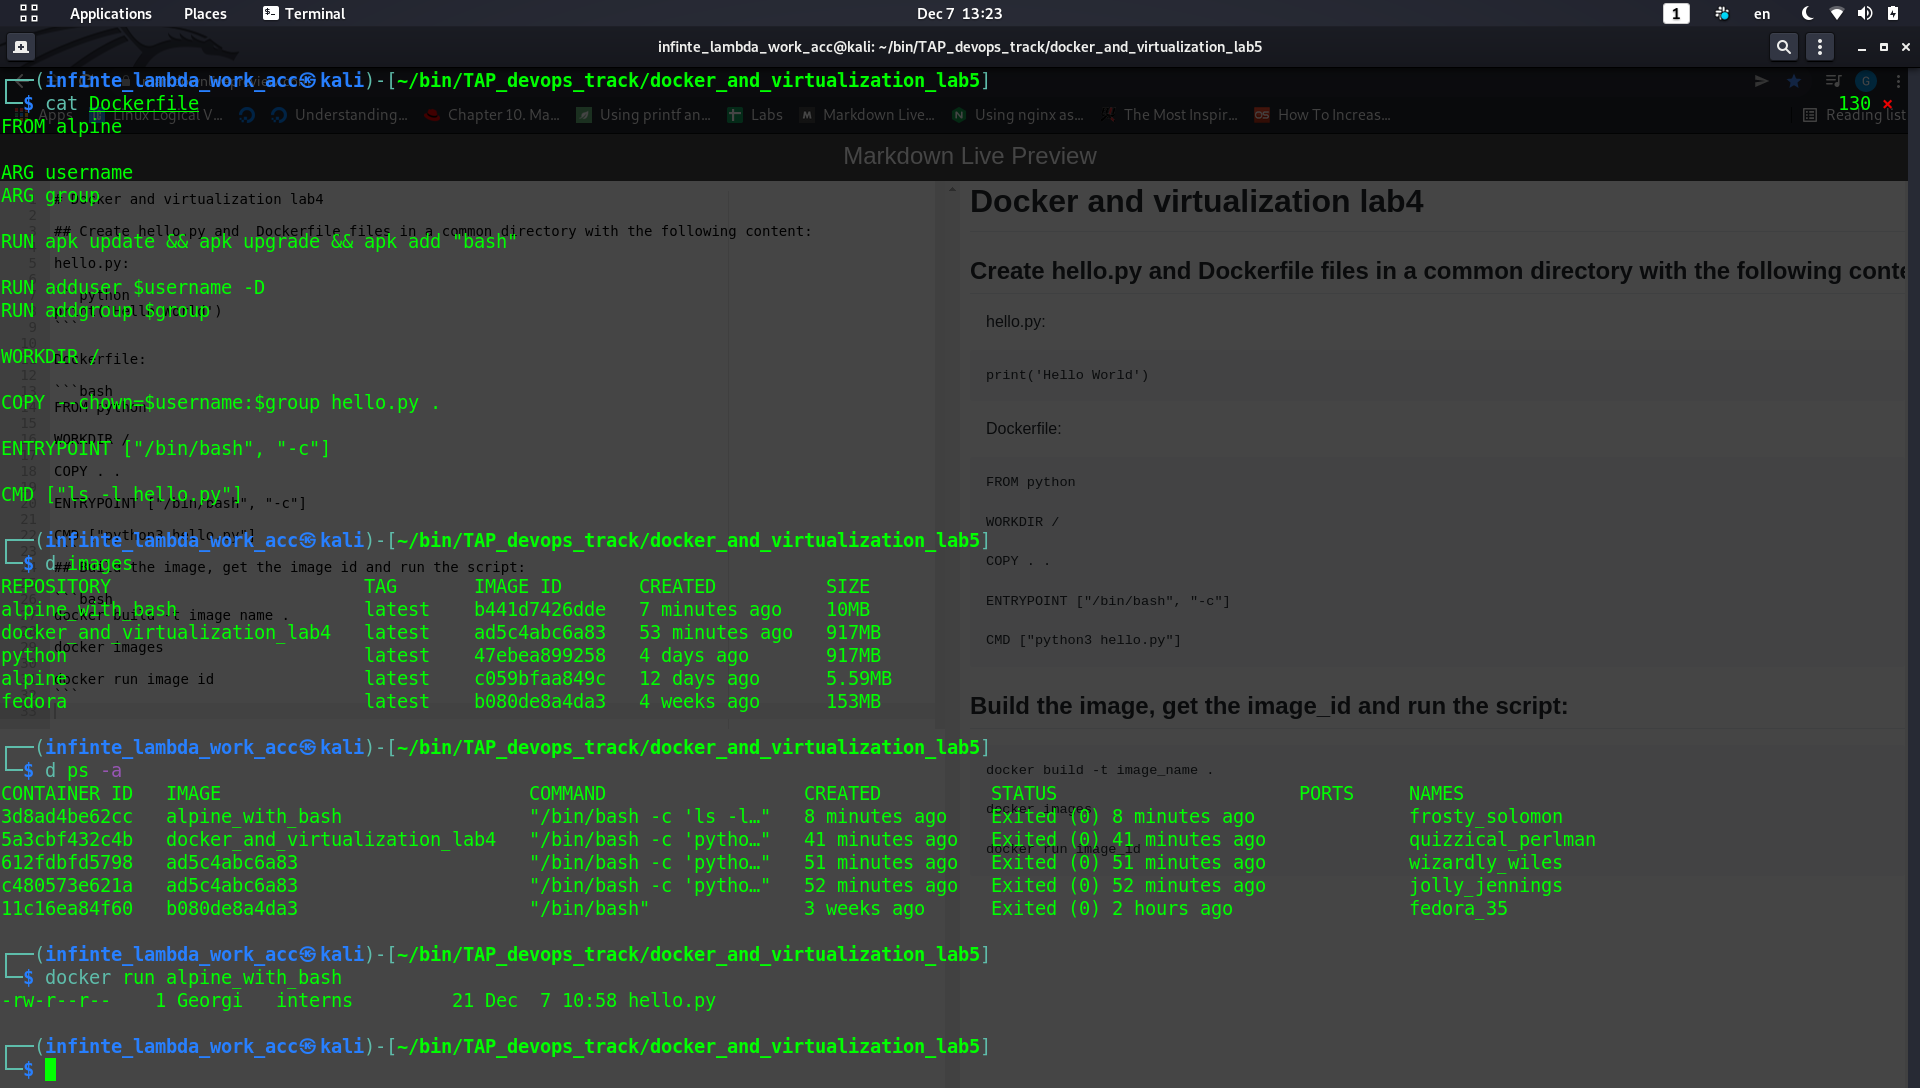
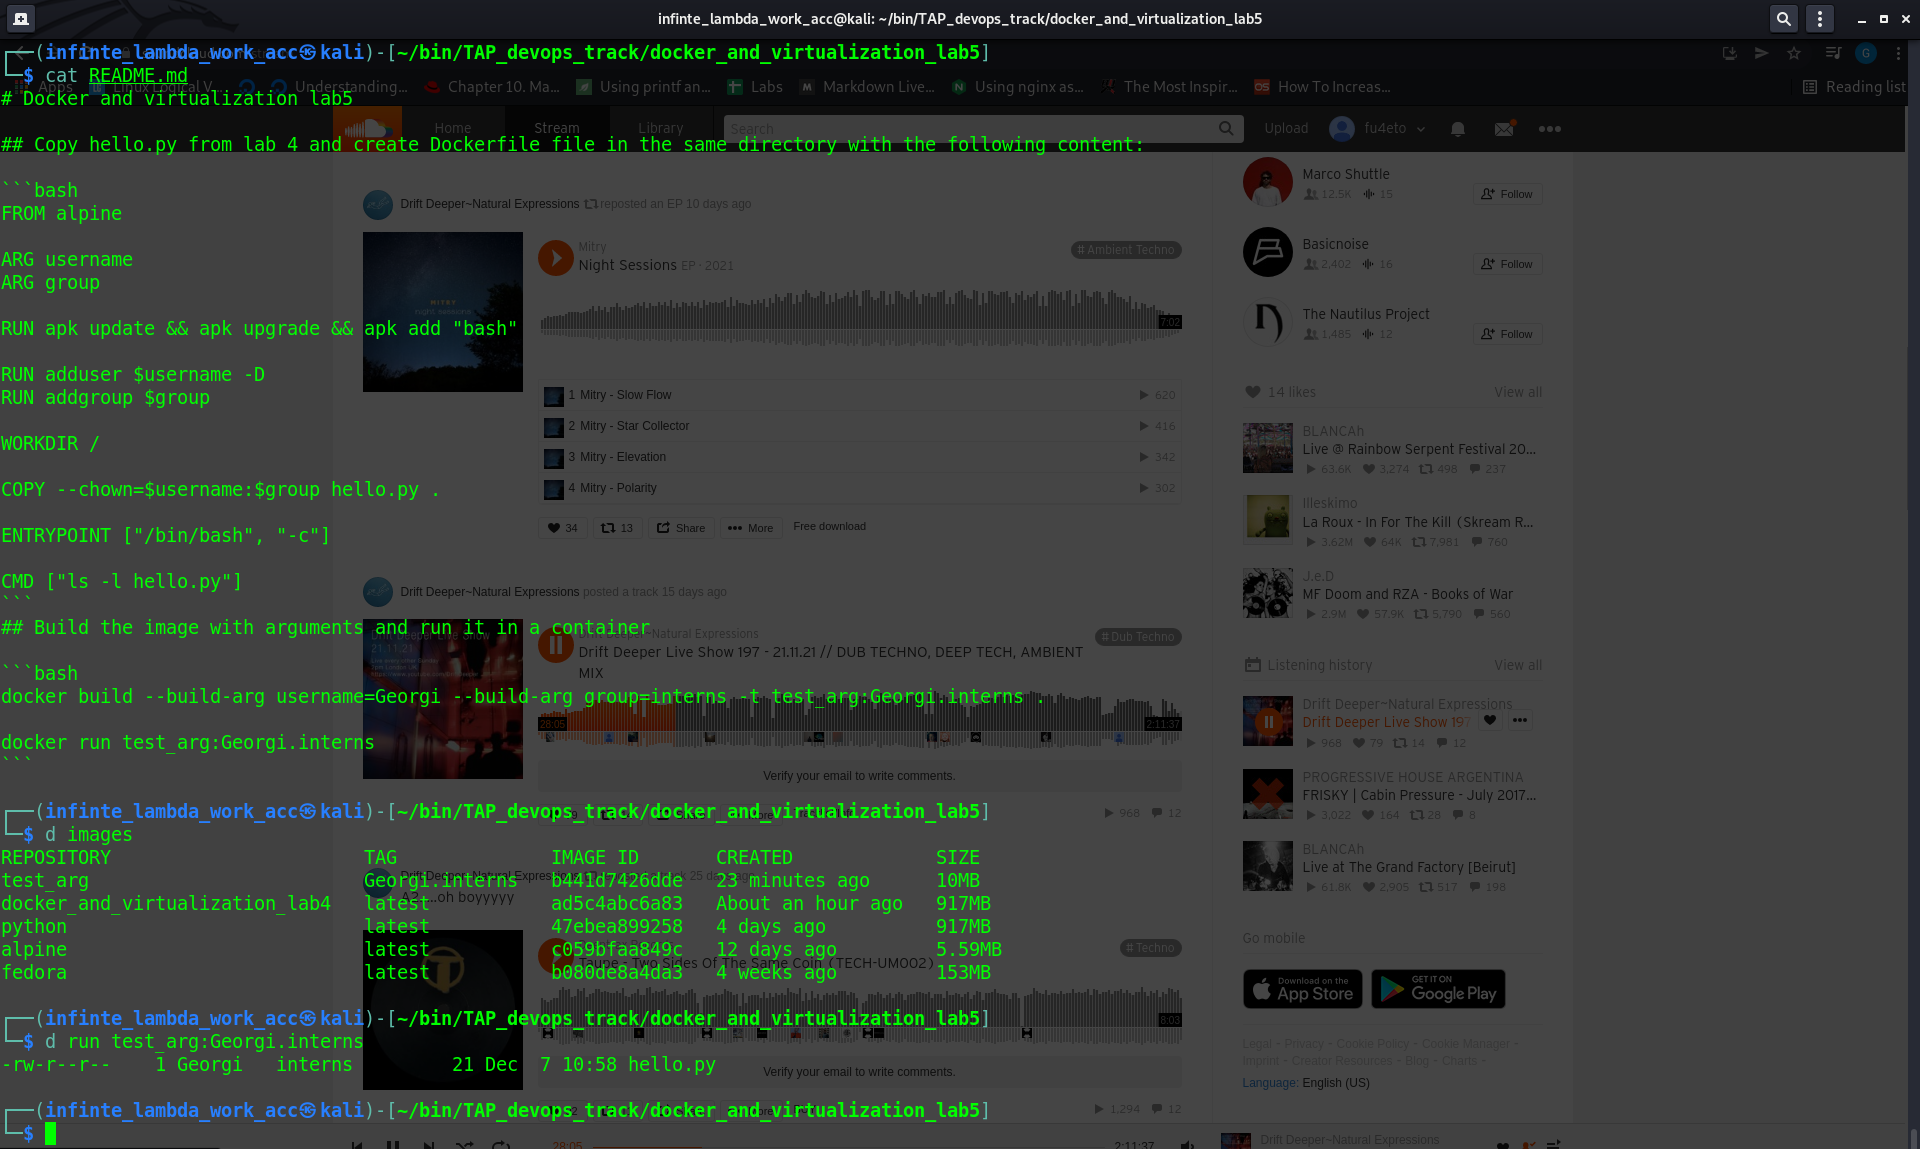
Fixed image name, README and the screenshot.

diff --git a/docker_and_virtualization_lab5/README.md b/docker_and_virtualization_lab5/README.md
@@ -24,7 +24,7 @@ CMD ["ls -l hello.py"]
 ## Build the image with arguments and run it in a container
 
 ```bash
-docker build --build-arg username=Georgi --build-arg group=interns -t alpine_with_bash .
+docker build --build-arg username=Georgi --build-arg group=interns -t test_arg:Georgi.interns .
 
-docker run alpine_with_bash
+docker run test_arg:Georgi.interns
 ```
